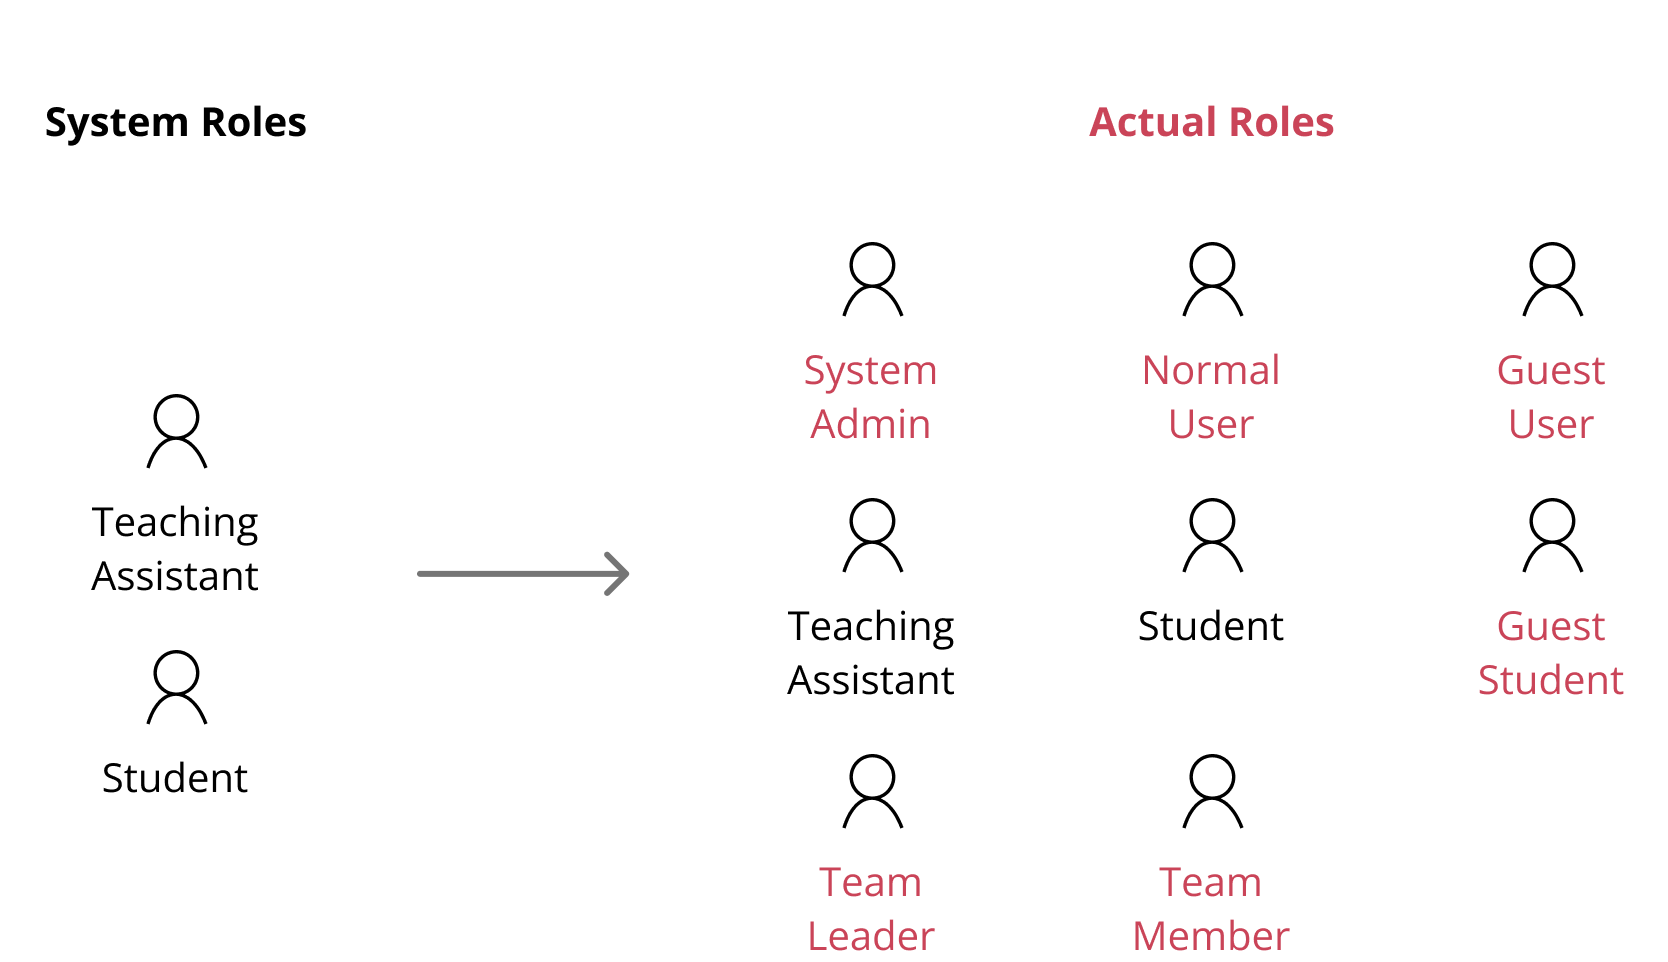
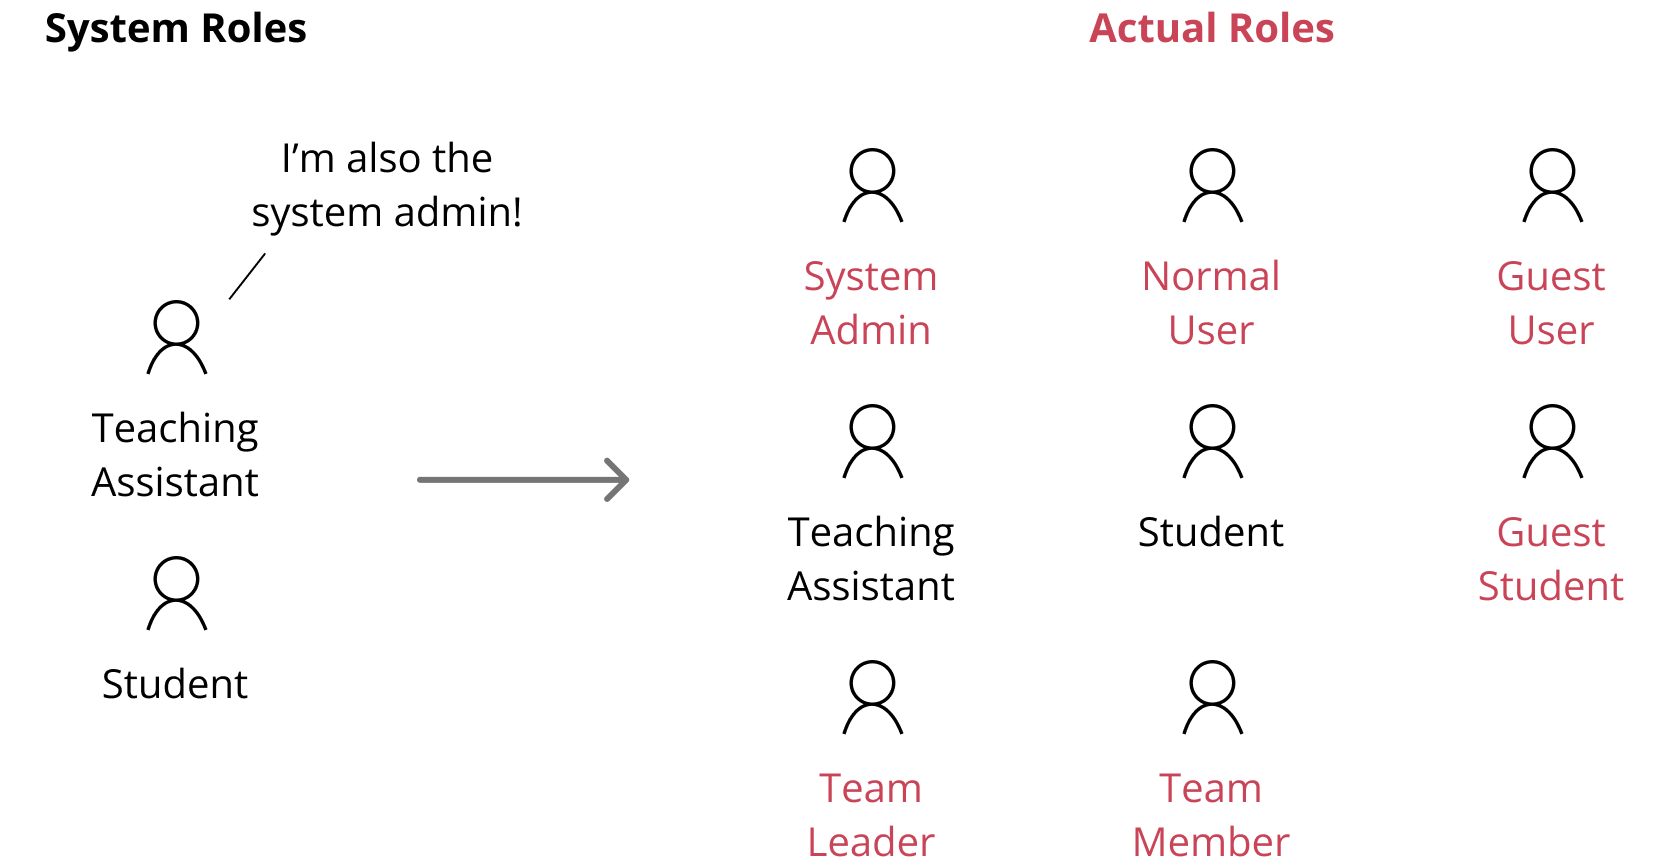
feat: update pdogs

diff --git a/src/container/Projects/PDOGS.js b/src/container/Projects/PDOGS.js
@@ -1,7 +1,7 @@
 import React, { useEffect } from "react";
 import "../../css/Projects/shared.css";
 import "../../css/Projects/pdogs.css";
-import { NavLink, Banner } from "../../components";
+import { NavLink, Banner, Role } from "../../components";
 import { GApageView } from "../../ga.js";
 
 export default function PDOGS() {
@@ -10,6 +10,34 @@ export default function PDOGS() {
   }, []);
 
   const imagBasePath = "/images/Pdogs/";
+
+  const roleTasks = [
+    {
+      role: "UX Researcher and Designer",
+      tasks: [
+        "Interview users, qualitative & quantitative data analytics",
+        "Wireframe & prototype design, A/B testing, usability testing",
+      ],
+    },
+    {
+      role: "Design Lead",
+      tasks: [
+        "Weekly design reviews with UI designers",
+        "Discuss design ideas with the engineering team",
+      ],
+    },
+    {
+      role: "Frontend Engineer",
+      tasks: ["React.js framework, Redux state management, Material UI"],
+    },
+    {
+      role: "Quality Assurance Lead",
+      tasks: [
+        "Wrote 127 test cases (edge cases included)",
+        "Directed 3 major QA testings before each launch",
+      ],
+    },
+  ];
 
   return (
     <div>
@@ -21,25 +49,22 @@ export default function PDOGS() {
       />
 
       <div className="section">
-        PDOGS (Programming Design Online Grading System) is a platform for
-        teaching assistants to publish programming assignments and for students
-        to submit their code and receive automatic grading. I led the design
-        team to transform the loosely organized legacy system into an
-        <b className="dark-pink-text"> easy-to-use, intuitive </b>new system
-        that can scale to <b className="dark-pink-text">serve 1000+ users </b>
-        while reducing potential operational errors and enhancing the user
-        experience.
+        I led a team of engineers and designers to create a new online grading
+        system in 3 months. The new design has a more flexible role structure
+        and a better integrated user experience, enabling it to{" "}
+        <b className="dark-pink-text">
+          serve 10 times more users (1000+ users)
+        </b>
+        , and <b className="dark-pink-text">cut down 90% of time</b> on routine
+        tasks compared to the legacy ones.
       </div>
 
       <div className="section">
-        <h5>MY ROLE</h5>
-        <p>
-          Design Lead, UX Researcher, Frontend Engineer, Quality Assurance Lead
-        </p>
+        <Role roleTasks={roleTasks} textClass="dark-pink-text" />
       </div>
 
       <div className="section">
-        <h5>MY TEAMMATES</h5>
+        <h2>My Teammates</h2>
         <ul>
           <li>
             Project Manager:
@@ -129,19 +154,7 @@ export default function PDOGS() {
       </div>
 
       <div className="section">
-        <h5>METHOD & TOOL</h5>
-        <ul>
-          <li>
-            Methods: interview, qualitative & quantitative data analytics,
-            wireframe, mockup, prototype, usability testing
-          </li>
-          <li>Tools: Figma, Qase (Quality Assurance)</li>
-          <li>Frontend Framework: React.js</li>
-        </ul>
-      </div>
-
-      <div className="section">
-        <h5>TIMELINE</h5>
+        <h2>Timeline</h2>
         <img
           className="full-img"
           src={`${imagBasePath}Timeline.png`}
@@ -150,29 +163,64 @@ export default function PDOGS() {
       </div>
 
       <div className="section">
-        <h5>THE PROBLEMS</h5>
+        <h2>Background</h2>
         <p>
-          In the past, the platform's developers only focused on adding new
+          PDOGS (Programming Design Online Grading System) is a platform for
+          teaching assistants to publish programming assignments. Students will
+          later submit their code in the platform and receive automatic grading.
+        </p>
+        <img
+          className="md:w-[70%] mx-auto my-4"
+          src={`${imagBasePath}background.png`}
+          alt="TA will upload assignments while students submit their code and get auto-graded."
+        />
+        <p>
+          It was originally built to serve the programming design course that
+          has no more than 50 students each semester. However, with the
+          increasing number of enrolled students, the problems root from its
+          scrappy design become more significant and raise greater security
+          concerns.
+        </p>
+      </div>
+
+      <div className="section">
+        <h2>The Problems</h2>
+        <p>
+          In the past, the platform’s developers only focused on adding new
           features and maintaining its functionality. After several generations,
           the system became very hard to use.
         </p>
         <p className="section-subtitle">1. Complex user roles</p>
-        <p className="dark-pink-text center-text">
-          "As teaching assistants are granted the highest right in the system, I
-          always need to warn them what sections they should not edit in case
-          they accidentally delete a whole class."
-          <br /> -- System Admin
-        </p>
         <p>
-          The legacy system only has 2 roles, a teaching assistant or a student.
-          However, during user interviews I realized there are{" "}
-          <b className="dark-pink-text">8 roles </b>in fact. What's more, a user
-          can have different roles under different situation.
+          The legacy system only has 2 roles, namely a teaching assistant or a
+          student. The teaching assistant role has the highest access rights
+          because the system was initially built by several teaching assistants.
+          However, the system now has its own dedicated system admin, enabling
+          teaching assistants to better focus on lecture materials. What’s more,
+          I realized there are now 6 additional roles after user interviews.
         </p>
         <img
-          className="half-full-img"
+          className="md:w-[70%] mx-auto my-4"
           src={`${imagBasePath}role-scope.png`}
           alt="Besides a teaching assistant and a student, there are 6 more roles in reality, including system admin, guest students, team leader, etc."
+        />
+        <p className="dark-pink-text center-text">
+          "As teaching assistants has the highest system permissions, I
+          always need to warn them what sections they should not edit in case
+          they accidentally delete a whole class." -- System Admin
+        </p>
+        <br />
+        <p>
+          Also, the legacy system fails to handle situations where a user can
+          have different roles. For example, a person can be a teaching
+          assistant in class A and a student in class B. However, the role
+          assignment is global in the legacy system. If a user is a TA in any
+          class, his role will be TA in all classes.
+        </p>
+        <img
+          className="md:w-[60%] mx-auto my-4"
+          src={`${imagBasePath}cjm-role-old.png`}
+          alt="Students with TA roles will be TA globally"
         />
 
         <p className="section-subtitle">2. Disjointed user experience</p>
@@ -196,7 +244,7 @@ export default function PDOGS() {
       </div>
 
       <div className="section">
-        <h5>DESIGN & DEVELOPMENT PROCESS</h5>
+        <h2>DESIGN & DEVELOPMENT PROCESS</h2>
         <div className="flex flex-wrap">
           <div className="big-number-section">
             <b className="big-title">
@@ -301,10 +349,10 @@ export default function PDOGS() {
       </div>
 
       <div className="section">
-        <h5>
+        <h2>
           <b className="dark-pink-text">Redesigned </b>Programming Design Online
           Grading System
-        </h5>
+        </h2>
         <img
           className="full-img"
           src={`${imagBasePath}pdogs.gif`}
@@ -352,7 +400,7 @@ export default function PDOGS() {
       </div>
 
       <div className="section">
-        <h5>RESULT</h5>
+        <h2>RESULT</h2>
         <div className="flex flex-wrap">
           <div className="big-number-section">
             <b className="dark-pink-text big-number">200+</b>
@@ -376,7 +424,7 @@ export default function PDOGS() {
       </div>
 
       <div className="section">
-        <h5>REFLECTION</h5>
+        <h2>REFLECTION</h2>
         <p className="section-subtitle">
           1. Comparing new and legacy systems with low-fidelity prototypes
           reduces bias in feedback

diff --git a/src/container/Work.js b/src/container/Work.js
@@ -19,13 +19,15 @@ function Work() {
         note: "2021 National Taiwan University",
         imgUrl: "/images/project4-cover.png",
         pageUrl: "/Work/PDOGS"
-    }, {
-        title: "Redesign Website of Bureau of Labor Insurance",
-        subtitle: "UX Researcher, UI Designer",
-        note: "2020 PDIS",
-        imgUrl: "/images/project1-cover.png",
-        pageUrl: "/Work/RedesignBLI"
-    }, {
+    }, 
+    // {
+    //     title: "Redesign Website of Bureau of Labor Insurance",
+    //     subtitle: "UX Researcher, UI Designer",
+    //     note: "2020 PDIS",
+    //     imgUrl: "/images/project1-cover.png",
+    //     pageUrl: "/Work/RedesignBLI"
+    // },
+    {
         title: "AR Contact Lens Wearing App",
         subtitle: "Frontend Engineer",
         note: "2019 Formosa Optical",

diff --git a/src/index.css b/src/index.css
@@ -66,6 +66,10 @@
   .pink-text {
     color: var(--pink);
   }
+
+  .dark-pink-text {
+    color: var(--dark-pink);
+  }
   
   .gray-text {
     color: var(--dark-gray);
@@ -104,6 +108,7 @@
 :root {
   --dark-blue: #316bcf;
   --pink: #f49da0;
+  --dark-pink: #CA4458;
   --dark-gray: #a0a0a0;
   --light-gray: #f6f6f6;
   --white: white;

diff --git a/src/css/Projects/pdogs.css b/src/css/Projects/pdogs.css
@@ -1,7 +1,3 @@
-.dark-pink-text {
-    color: #CA4458;
-}
-
 .half-full-img {
     width: 100%;
     border-radius: 10px;
